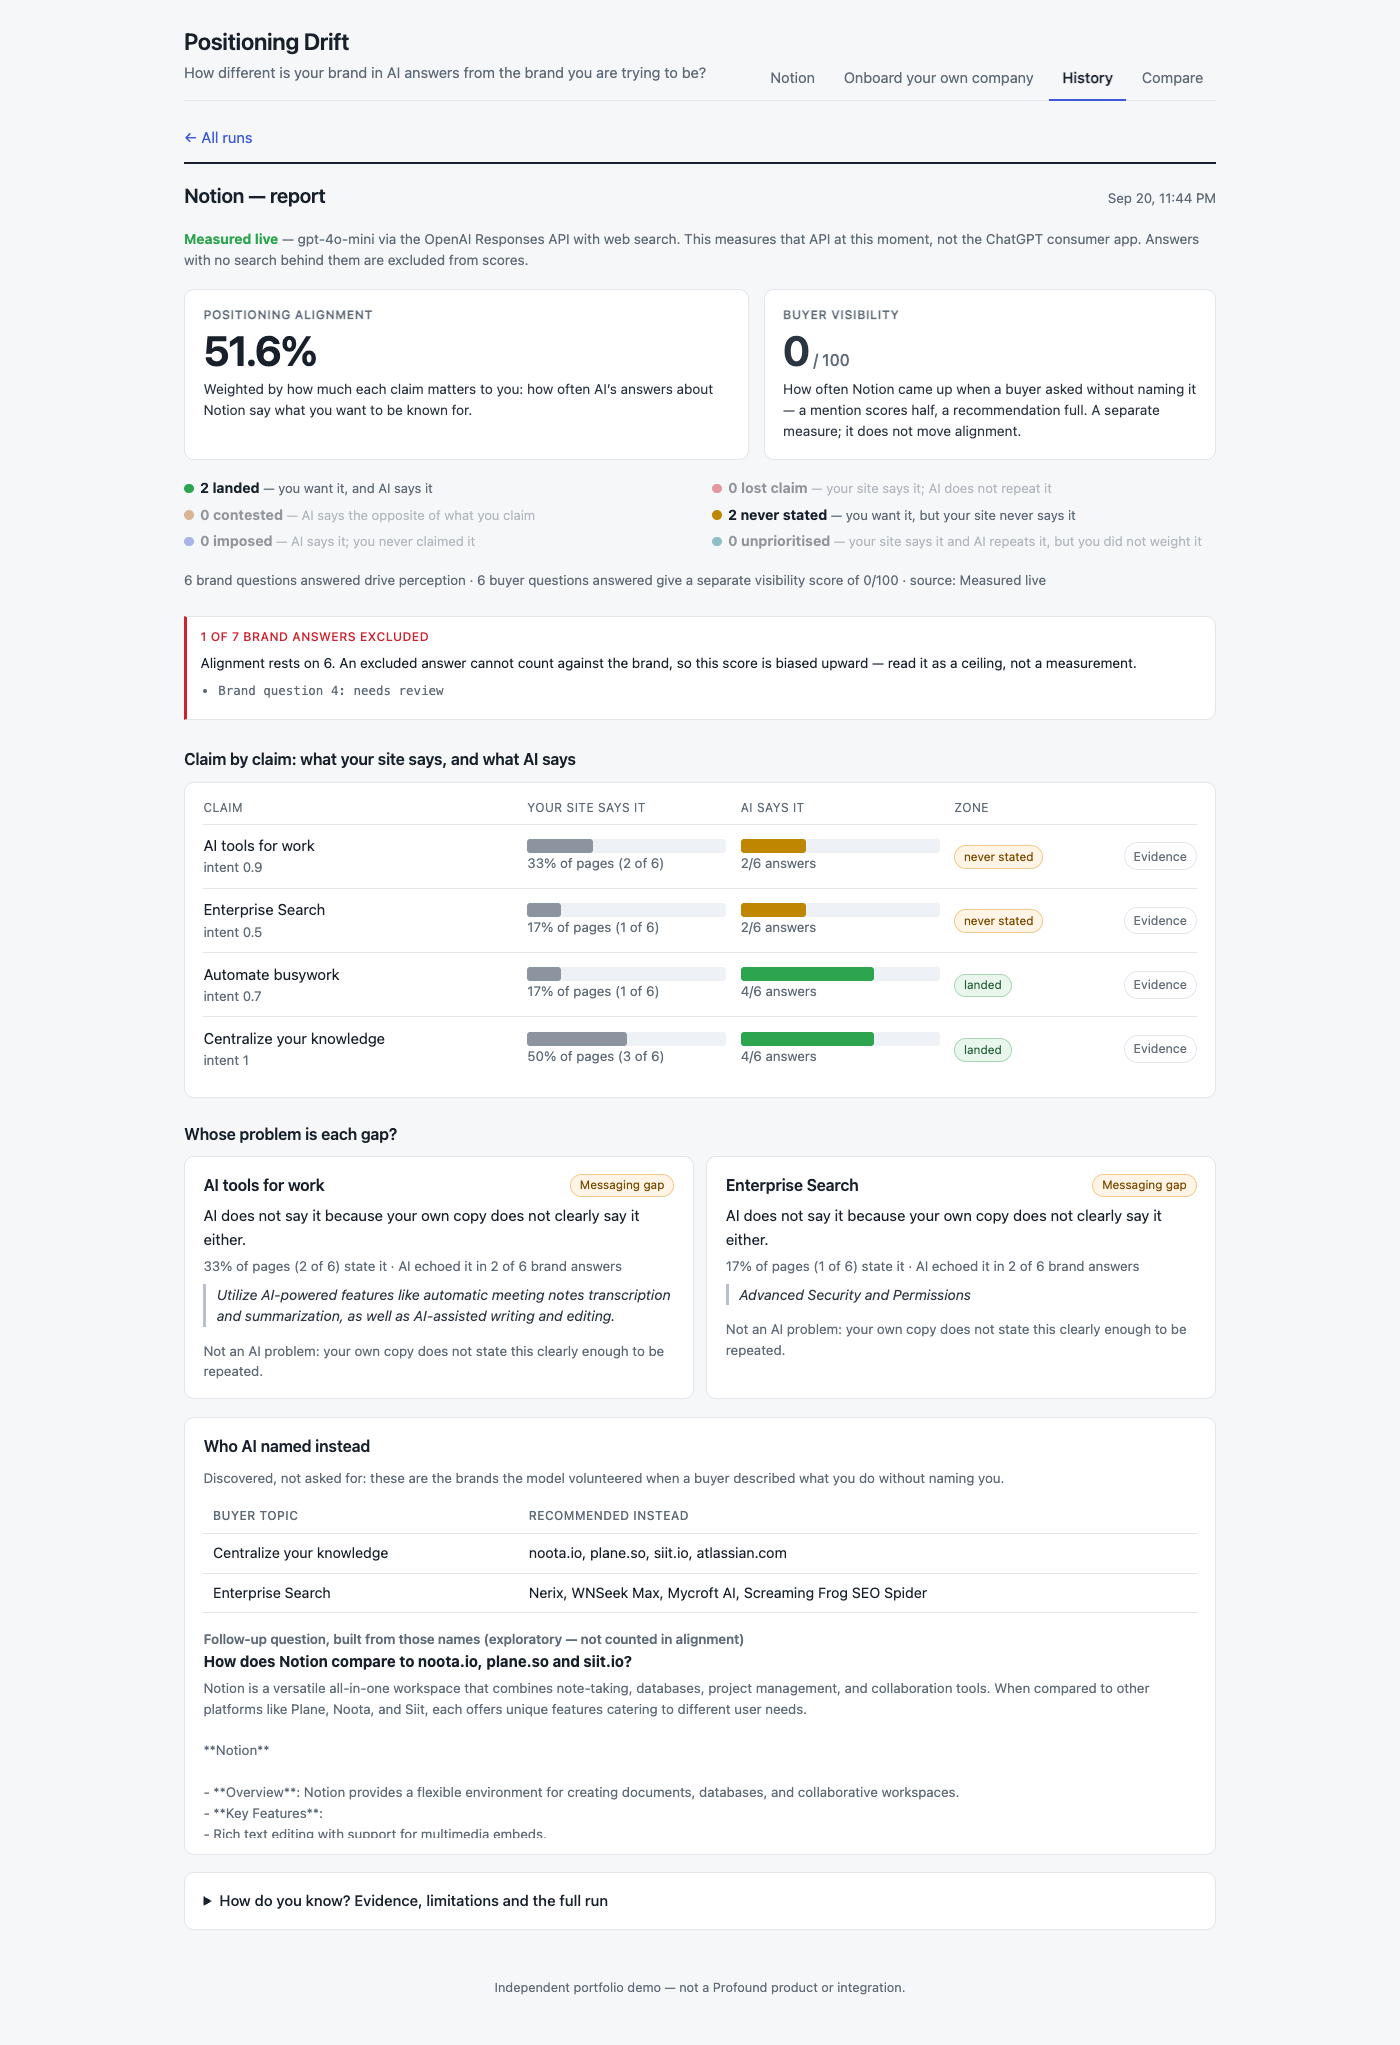
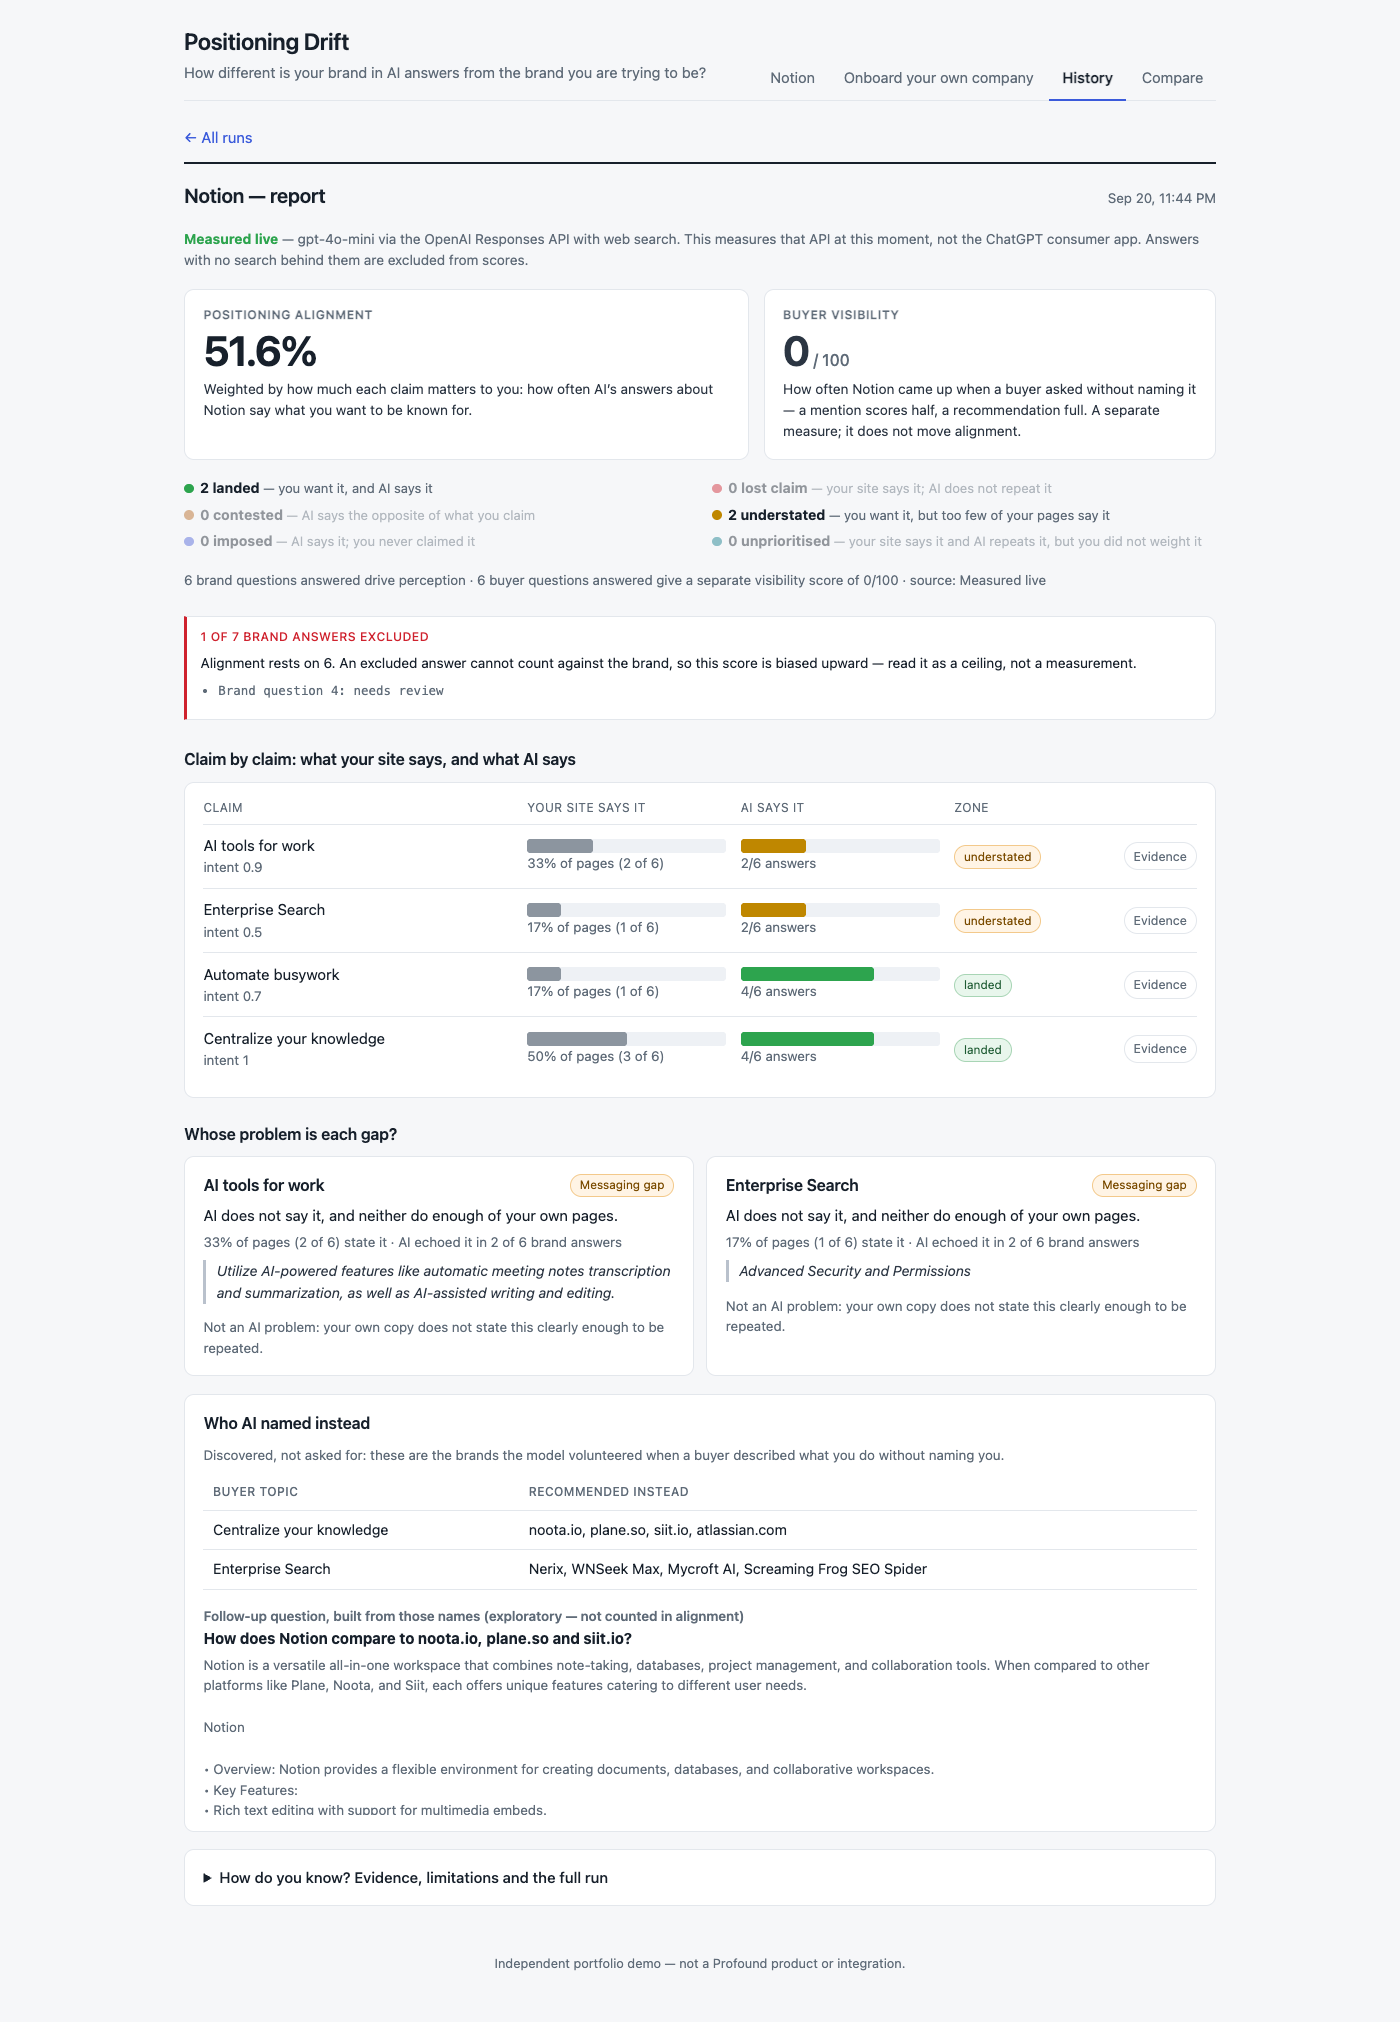
Say 'understated', not 'never stated'; strip Markdown from model answers
The unstated-intent zone fires below a share-of-pages threshold, so it also
covers a claim on 2 of 6 pages; 'never stated' beside '33% of pages (2 of 6)'
contradicted its own row. The label, legend and messaging-gap text now say
too few pages state it. Classification and CLAIM_THRESHOLD are unchanged.

Model answers are Markdown from an untrusted model. They are now shown as
plain text everywhere an answer or answer quote appears - asterisks, headings
and link syntax stripped, list items bulleted - and never rendered as HTML.

diff --git a/web/src/components.tsx b/web/src/components.tsx
@@ -1,7 +1,7 @@
 import { useState } from "react";
 import type { AttributeScore, DriftReport, Run, RunSummary, Zone } from "./api";
 import { GAP_ZONES, OWNER_TEXT, OWNER_TITLE, ZONE_LABEL, ZONE_MEANING, ZONE_ORDER, ZONES } from "./api";
-import { PROVENANCE_LABEL, claimShare, probeLabels, provenanceLabel, runLabels, when } from "./labels";
+import { PROVENANCE_LABEL, claimShare, plain, probeLabels, provenanceLabel, runLabels, when } from "./labels";
 
 const ZONE_FILL: Record<Zone, string> = {
   landed: "var(--landed)",
@@ -147,7 +147,7 @@ function EvidenceBubble({ s, run }: { s: AttributeScore; run?: Run }) {
       {s.quotes.length > 0 && (
         <>
           <h4>Verbatim quotes</h4>
-          {s.quotes.map((q, i) => <p className="quote" key={i}>{q}</p>)}
+          {s.quotes.map((q, i) => <p className="quote" key={i}>{plain(q)}</p>)}
         </>
       )}
       {s.probe_ids.length > 0 && (
@@ -245,7 +245,7 @@ function GapCard({ s }: { s: AttributeScore }) {
         {" · "}AI echoed it in {s.echoes} of {s.n} brand answers
         {s.negative_echoes > 0 && ` · ${s.negative_echoes} negative`}
       </p>
-      {s.quotes[0] && <p className="quote">{s.quotes[0]}</p>}
+      {s.quotes[0] && <p className="quote">{plain(s.quotes[0])}</p>}
       {s.owner === "authority_gap" && (
         <p className="muted" style={{ marginBottom: 0 }}>
           Relevant capability:{" "}
@@ -269,7 +269,7 @@ export function GapCards({ scores }: { scores: AttributeScore[] }) {
     .sort((a, b) => ZONE_ORDER[a.zone] - ZONE_ORDER[b.zone] || (b.intended_weight ?? 0) - (a.intended_weight ?? 0))
     .slice(0, 4);
   if (!gaps.length) {
-    return <div className="card muted">Nothing to fix: no claim is lost, contested, never stated or imposed.</div>;
+    return <div className="card muted">Nothing to fix: no claim is lost, contested, understated or imposed.</div>;
   }
   return (
     <div className="gaps">
@@ -334,7 +334,7 @@ export function Competitors({ run }: { run: Run }) {
             Follow-up question, built from those names (exploratory — not counted in alignment)
           </h4>
           <strong>{comparison.text}</strong>
-          <p className="muted long-answer">{answer?.text ?? "no answer"}</p>
+          <p className="muted long-answer">{answer ? plain(answer.text) : "no answer"}</p>
         </>
       )}
     </div>
@@ -358,7 +358,7 @@ export function Evidence({ run }: { run: Run }) {
           <div className="card" key={p.id}>
             <div className="muted" title={p.id}>{names[p.id] ?? p.id}</div>
             <strong>{p.text}</strong>
-            <p className="muted" style={{ marginBottom: 0 }}>{byId[p.id]?.text ?? "no answer"}</p>
+            <p className="muted long-answer">{byId[p.id] ? plain(byId[p.id].text) : "no answer"}</p>
           </div>
         ))}
       </div>

diff --git a/web/src/api.ts b/web/src/api.ts
@@ -119,7 +119,9 @@ export const ZONE_LABEL: Record<Zone, string> = {
   landed: "landed",
   lost_claim: "lost claim",
   contested: "contested",
-  unstated_intent: "never stated",
+  // The zone fires below drift.CLAIM_THRESHOLD, a share of pages, so it covers "1 of 6" as well as
+  // "0 of 6". "never stated" beside a row reading "33% of pages (2 of 6)" contradicted itself.
+  unstated_intent: "understated",
   imposed: "imposed",
   unprioritised: "unprioritised",
 };
@@ -129,7 +131,7 @@ export const ZONE_MEANING: Record<Zone, string> = {
   landed: "you want it, and AI says it",
   lost_claim: "your site says it; AI does not repeat it",
   contested: "AI says the opposite of what you claim",
-  unstated_intent: "you want it, but your site never says it",
+  unstated_intent: "you want it, but too few of your pages say it",
   imposed: "AI says it; you never claimed it",
   unprioritised: "your site says it and AI repeats it, but you did not weight it",
 };
@@ -146,10 +148,11 @@ export const OWNER_TITLE: Record<Owner, string> = {
   none: "Aligned",
 };
 
-// Why each gap is whose problem. Mirrors drift.OWNER_TEXT.
+// Why each gap is whose problem. Mirrors drift.OWNER_TEXT, except messaging_gap: drift's "does not
+// clearly say it either" reads as absolute beside a nonzero page count, so the web says it relatively.
 export const OWNER_TEXT: Record<Owner, string> = {
   authority_gap: "You state this clearly and the models are not repeating it.",
-  messaging_gap: "AI does not say it because your own copy does not clearly say it either.",
+  messaging_gap: "AI does not say it, and neither do enough of your own pages.",
   contested_identity: "AI talks about this and says the opposite of what you claim.",
   imposed_identity: "AI asserts this about you without you claiming it.",
   unprioritised_claim: "You say this on your own site and AI repeats it, but you did not mark it as "

diff --git a/web/src/workflow.tsx b/web/src/workflow.tsx
@@ -10,7 +10,7 @@ import type { CompanyDetail, CompanySummary, Run, StreamAnswer, StreamNode } fro
 import { getCompanies, getCompany, streamOnboard, streamRun } from "./api";
 import { ClaimsStep } from "./claims";
 import { Report } from "./components";
-import { PROVENANCE_LABEL, streamingProbeLabel } from "./labels";
+import { PROVENANCE_LABEL, plain, streamingProbeLabel } from "./labels";
 
 type StageState = "pending" | "active" | "done" | "skipped" | "failed";
 
@@ -46,8 +46,6 @@ const host = (url: string) => {
 };
 const day = (iso: string) =>
   new Date(iso).toLocaleDateString(undefined, { day: "numeric", month: "short", year: "numeric" });
-/** Answers arrive as Markdown; an excerpt reads better without its asterisks and link syntax. */
-const plain = (md: string) => md.replace(/\[([^\]]*)\]\([^)]*\)/g, "$1").replace(/[*_#`]+/g, "");
 const plural = (n: number, one: string, many = `${one}s`) => `${n} ${n === 1 ? one : many}`;
 
 interface Progress {

diff --git a/web/src/labels.ts b/web/src/labels.ts
@@ -36,6 +36,17 @@ export function claimShare(pages: number, total: number, strength: number | null
   return strength == null ? null : `${Math.round(strength * 100)}% of pages`;
 }
 
+/**
+ * A model answer as plain text. Answers are Markdown written by an untrusted model, so the markup is
+ * stripped rather than rendered: nothing from an answer ever becomes HTML or a link. A link keeps its
+ * text, even when an excerpt cut it off before the closing parenthesis; list items keep a bullet.
+ */
+export const plain = (md: string) => md
+  .replace(/\[([^\]]*)\]\([^)\s]*\)?/g, "$1")
+  .replace(/^[ \t]*#{1,6}[ \t]+/gm, "")
+  .replace(/^([ \t]*)[-*+][ \t]+/gm, "$1• ")
+  .replace(/\*+|__|`+/g, "");
+
 /** `Probe.kind`: what the question does, not what the enum is called. */
 export const PROBE_KIND_LABEL: Record<string, string> = {
   named: "names your brand",
